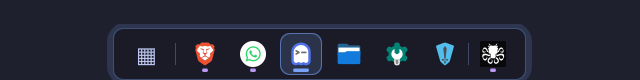
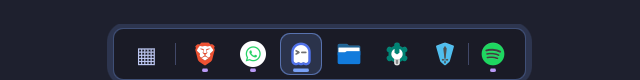
Show the real app name in the media widget, refresh screenshots
playerctl only exposes the D-Bus bus name, so a video playing in the browser
showed up as "Plasma-browser-integration" or "Brave" depending on which of the
two MPRIS players had updated last. MPRIS carries the actual app name in the
Identity property, which is now read over D-Bus when the active player changes.

Screenshots retaken with Spotify playing, so the media widget shows a real
player name instead of the previous inconsistent one.

Changed region(s): [[0.75, 0.5, 0.8125, 0.85]]

diff --git a/quickshell/services/MediaService.qml b/quickshell/services/MediaService.qml
@@ -7,7 +7,36 @@ Item {
     id: root
 
     property string playerName: ""
-    property string playerDisplayName: getDisplayName(playerName)
+    // playerctl only reports the D-Bus bus name ("plasma-browser-integration"),
+    // while MPRIS carries the app's real name in the Identity property
+    // ("Brave"). Fetched over D-Bus whenever the active player changes.
+    property string playerIdentity: ""
+    property string playerDisplayName: playerIdentity !== "" ? playerIdentity : getDisplayName(playerName)
+
+    onPlayerNameChanged: {
+        root.playerIdentity = ""
+        if (playerName !== "") {
+            identityProc.running = false
+            identityProc.command = [
+                "busctl", "--user", "get-property",
+                "org.mpris.MediaPlayer2." + playerName,
+                "/org/mpris/MediaPlayer2",
+                "org.mpris.MediaPlayer2", "Identity"
+            ]
+            identityProc.running = true
+        }
+    }
+
+    Process {
+        id: identityProc
+        stdout: SplitParser {
+            onRead: data => {
+                // busctl prints: s "Brave"
+                let match = data.trim().match(/"(.*)"/)
+                if (match && match[1] !== "") root.playerIdentity = match[1]
+            }
+        }
+    }
     property string title: ""
     property string artist: ""
     property string album: ""
